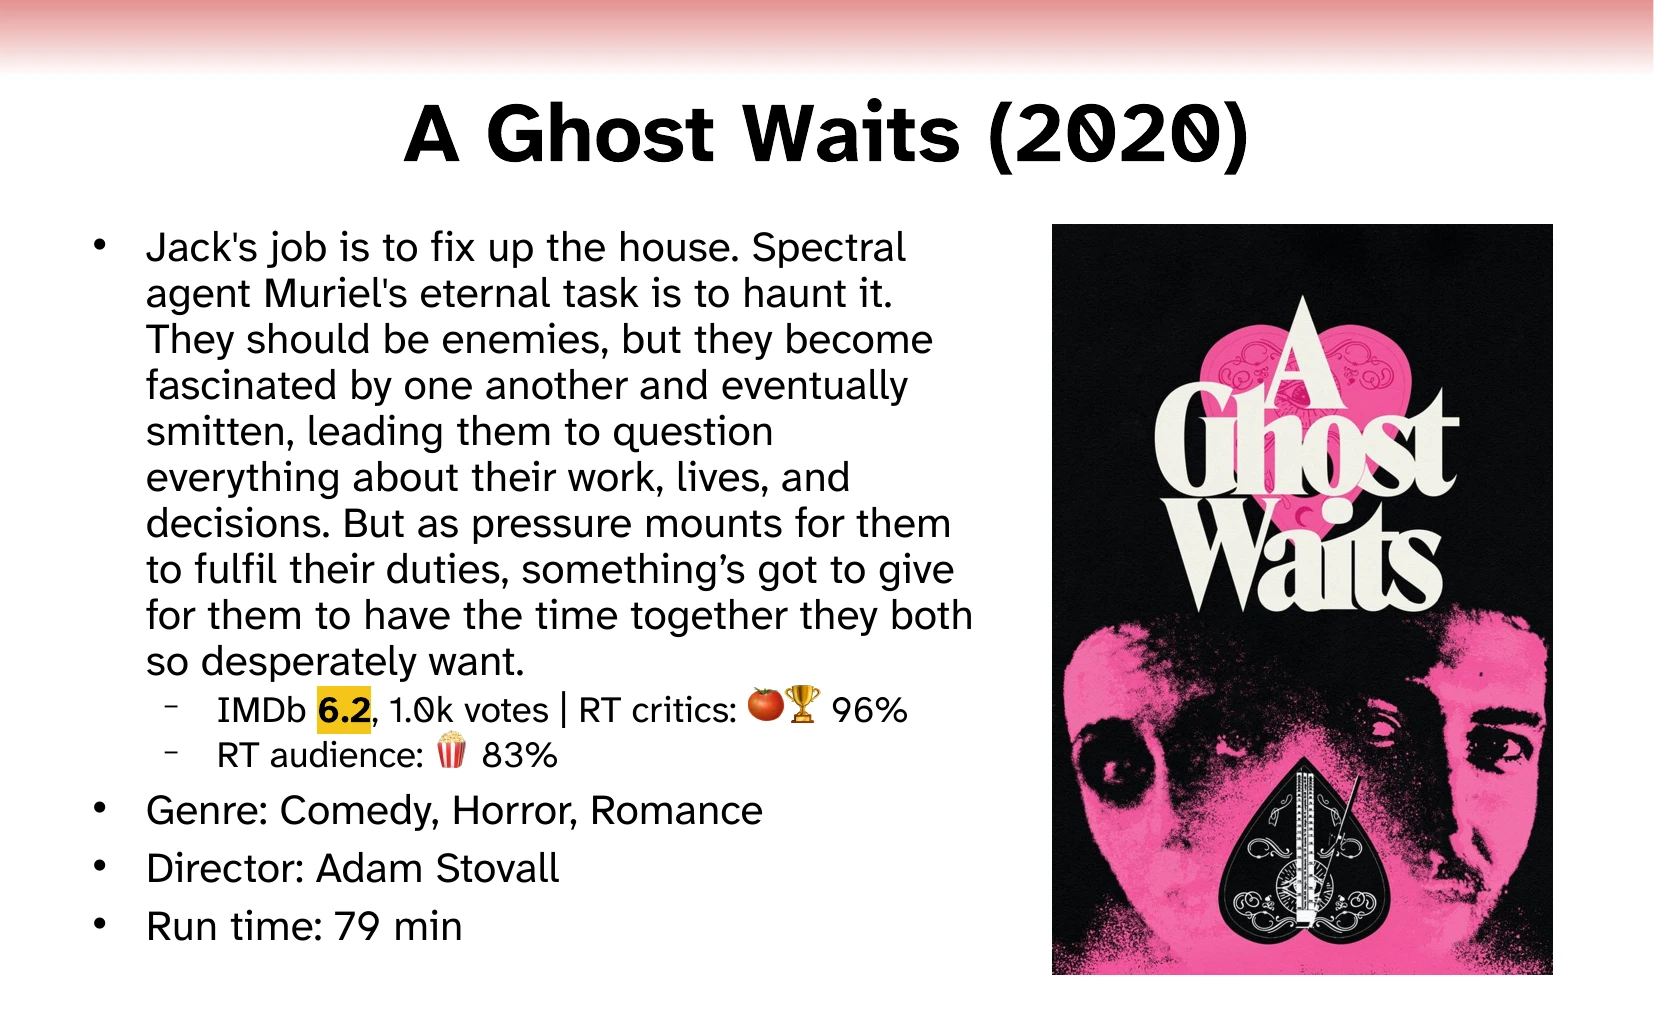
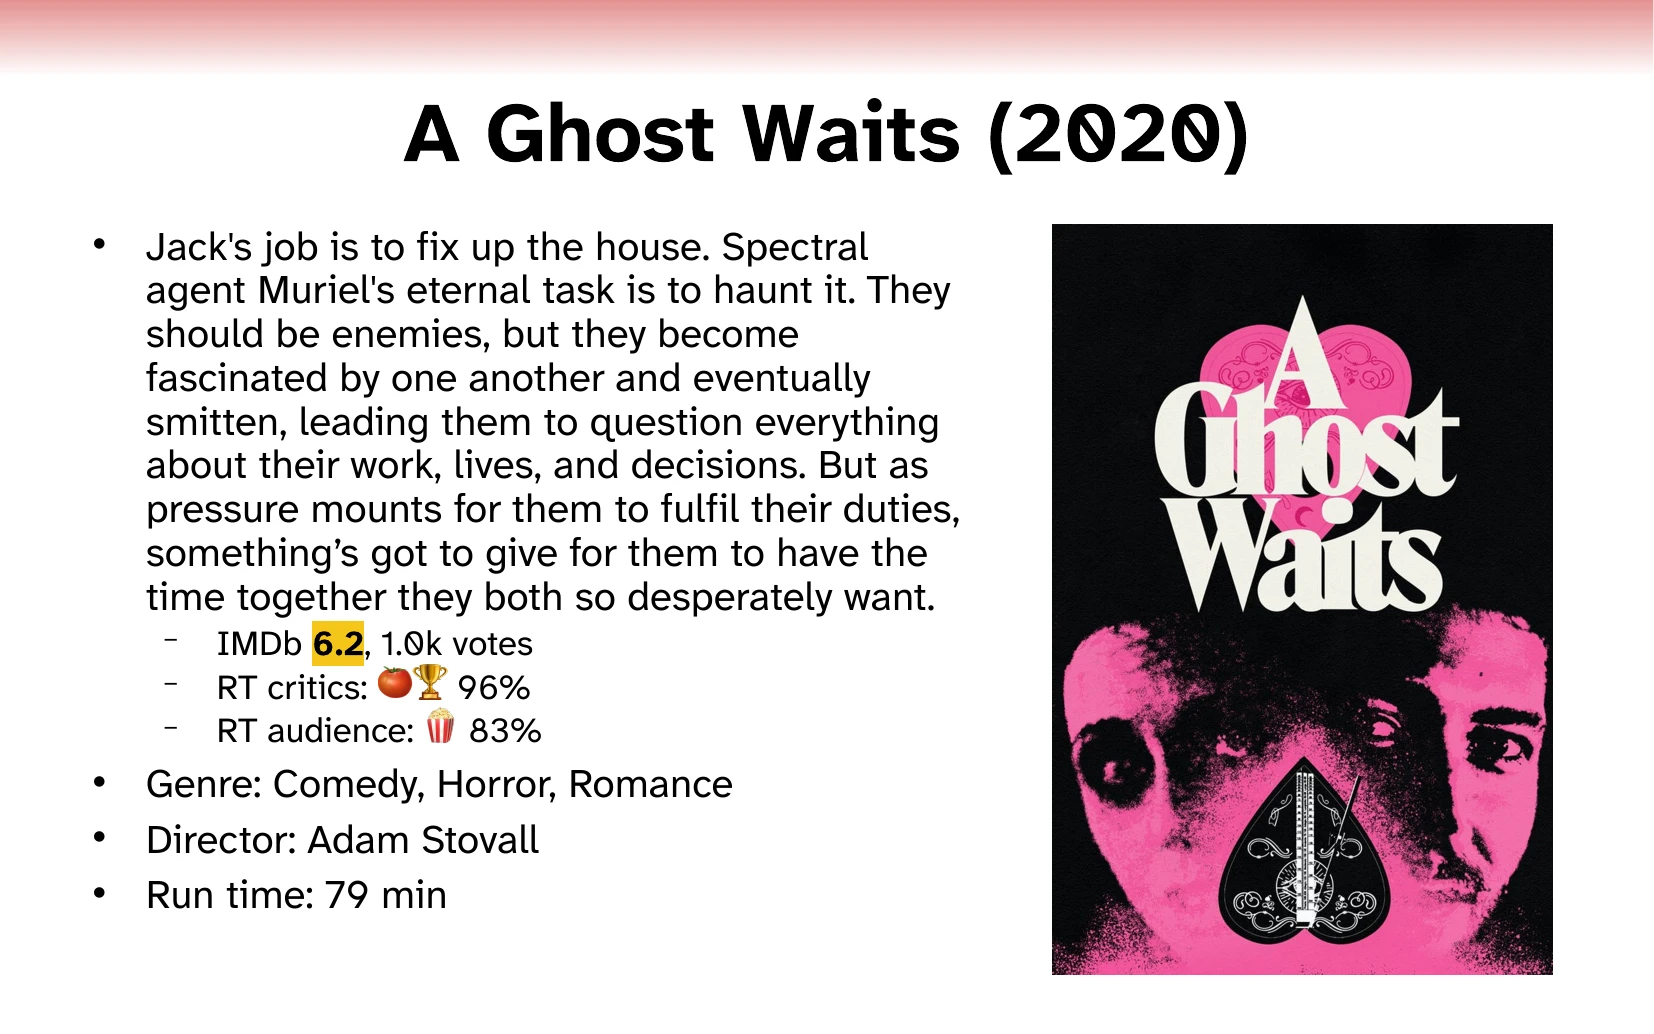
Prefer separate rating rows when the whole outline fits wit... (+1 more)
- Prefer separate rating rows when the whole outline fits with at most 15% font shrinking;
  compact crowded slides with RT critics and audience paired before combining other ratings. Replac...
- Rebuilt the five live examples with the repository review-deck script and inspected all four
  refreshed WebP previews. Her uses two rating rows with RT critics and audience together; Cooties,...

Changed region(s): [[0.0617, 0.2166, 0.5859, 0.9284]]

diff --git a/slide_maker/rating_layout.py b/slide_maker/rating_layout.py
@@ -8,6 +8,10 @@ import PIL.ImageFont #pillow
 import pptx.text.fonts
 
 
+# Allow modest shrinking before sacrificing the preferred one-rating-per-row layout.
+PREFERRED_MIN_SCALE = 0.85
+
+
 #============================================
 class TextMetrics:
 	"""Measure the installed movie font in points, reserving room for emoji."""
@@ -38,12 +42,19 @@ class TextMetrics:
 
 
 #============================================
-def pack_rows(widths: list[float], separator: float, width: float) -> list[list[int]]:
-	"""Wrap only between complete items, preserving their reading order."""
+def pack_rows(
+	widths: list[float], separator: float, width: float,
+	paired: tuple[int, int] | None = None,
+) -> list[list[int]]:
+	"""Pack complete items, keeping the preferred pair together before other merges."""
+	groups = [[index] for index in range(len(widths)) if paired is None or index not in paired]
+	if paired is not None:
+		groups.append(list(paired))
 	rows = []
 	row = []
 	used = 0.0
-	for index, item_width in enumerate(widths):
+	for group in groups:
+		item_width = sum(widths[index] for index in group) + separator * (len(group) - 1)
 		addition = item_width + (separator if row else 0.0)
 		if row and used + addition > width:
 			rows.append(row)
@@ -51,7 +62,7 @@ def pack_rows(widths: list[float], separator: float, width: float) -> list[list[
 			used = 0.0
 		if row:
 			used += separator
-		row.append(index)
+		row.extend(group)
 		used += item_width
 	if row:
 		rows.append(row)
@@ -89,8 +100,9 @@ def choose_rows(
 	height: float,
 	body_size: float,
 	rating_size: float,
+	paired: tuple[int, int] | None = None,
 ) -> tuple[list[list[int]], float]:
-	"""Choose compact rows at the largest estimated whole-outline text scale.
+	"""Prefer separate ratings; compact only when the whole outline is crowded.
 
 	All dimensions are points at the normal font sizes. Body text, including plot,
 	review and metadata, competes with ratings for the same height. Width reserves
@@ -98,24 +110,40 @@ def choose_rows(
 	"""
 	if min(body_width, rating_width, height) <= 0:
 		raise ValueError("The slide outline must have positive available dimensions")
-	lower = 0.0
-	upper = 1.0
-	best_rows = [[index] for index in range(len(widths))]
-	# Test full size first, then bisect the fit boundary rather than choosing by movie name.
-	for attempt in range(13):
-		scale = 1.0 if attempt == 0 else (lower + upper) / 2
-		available_width = rating_width * 0.95 / scale
-		rows = pack_rows(widths, separator, available_width)
-		lines = body_line_count(paragraphs, space, body_width * 0.95 / scale)
-		body_height = lines * body_size * 1.1 + len(paragraphs) * 5.75
-		rating_height = len(rows) * (rating_size * 1.1 + 2.89)
-		fits = (body_height + rating_height) * scale <= height
-		fits = fits and all(width <= available_width for width in widths)
-		if fits:
-			lower = scale
-			best_rows = rows
-			if scale == 1.0:
-				break
-		else:
-			upper = scale
+	separate_rows = [[index] for index in range(len(widths))]
+	paired_rows = [
+		list(paired) if paired is not None and index == paired[0] else [index]
+		for index in range(len(widths)) if paired is None or index != paired[1]
+	]
+	for layout in ("separate", "paired", "compact"):
+		if layout == "paired" and paired is None:
+			continue
+		lower = 0.0
+		upper = 1.0
+		best_rows = separate_rows
+		# Test full size first, then bisect the fit boundary using all outline content.
+		for attempt in range(13):
+			scale = 1.0 if attempt == 0 else (lower + upper) / 2
+			available_width = rating_width * 0.95 / scale
+			if layout == "compact":
+				rows = pack_rows(widths, separator, available_width, paired)
+			else:
+				rows = separate_rows if layout == "separate" else paired_rows
+			lines = body_line_count(paragraphs, space, body_width * 0.95 / scale)
+			body_height = lines * body_size * 1.1 + len(paragraphs) * 5.75
+			rating_height = len(rows) * (rating_size * 1.1 + 2.89)
+			fits = (body_height + rating_height) * scale <= height
+			fits = fits and all(
+				sum(widths[index] for index in row) + separator * (len(row) - 1) <= available_width
+				for row in rows
+			)
+			if fits:
+				lower = scale
+				best_rows = rows
+				if scale == 1.0:
+					break
+			else:
+				upper = scale
+		if lower >= PREFERRED_MIN_SCALE:
+			return best_rows, lower
 	return best_rows, lower

diff --git a/tests/test_rating_layout.py b/tests/test_rating_layout.py
@@ -1,5 +1,8 @@
 """Protect whole-item wrapping and content-sensitive rating composition."""
 
+# PIP3 modules
+import pytest
+
 # local repo modules
 import slide_maker.moviedata
 import slide_maker.rating_layout
@@ -25,6 +28,37 @@ def test_body_content_changes_rating_arrangement() -> None:
 	)
 	assert len(dense_rows) < len(sparse_rows)
 	assert 0 < dense_scale < sparse_scale <= 1
+	assert sparse_rows == [[0], [1], [2]]
+
+
+#============================================
+@pytest.mark.parametrize("widths", ([80, 70, 70], [80, 70, 70, 60]))
+def test_compact_ratings_pair_critics_and_audience(widths: list[float]) -> None:
+	"""Crowded slides pair the two RT facts and retain every available rating."""
+	rows, scale = slide_maker.rating_layout.choose_rows(
+		widths, 10, [[30] * 50], 5, 200, 200, 140, 20, 18, paired=(1, 2),
+	)
+	assert any(1 in row and 2 in row for row in rows)
+	assert sorted(index for row in rows for index in row) == list(range(len(widths)))
+	assert 0 < scale < 1
+
+
+#============================================
+def test_pair_only_rt_when_that_frees_enough_space() -> None:
+	"""Stop compacting after the RT pair when the remaining facts can stay separate."""
+	rows, scale = slide_maker.rating_layout.choose_rows(
+		[80, 70, 70, 60], 10, [[30] * 4], 5, 200, 200, 100, 20, 18, paired=(1, 2),
+	)
+	assert rows == [[0], [1, 2], [3]]
+	assert scale == 1
+
+
+#============================================
+def test_preferred_pair_wraps_as_a_unit() -> None:
+	"""RT stays together even when the other facts must occupy separate rows."""
+	assert slide_maker.rating_layout.pack_rows(
+		[110, 60, 60, 100], 5, 150, paired=(1, 2),
+	) == [[0], [3], [1, 2]]
 
 
 #============================================

diff --git a/slide_maker/slide_builder.py b/slide_maker/slide_builder.py
@@ -277,6 +277,8 @@ def fill_outline(slide: object, movie_data: slide_maker.moviedata.MovieData) -> 
 	rows = []
 	if items:
 		metrics = slide_maker.rating_layout.TextMetrics(FONT_NAME)
+		rt_indices = [index for index, (text, unused_score) in enumerate(items) if text.startswith("RT ")]
+		rt_pair = (rt_indices[0], rt_indices[1]) if len(rt_indices) == 2 else None
 		body_texts = ([movie_data.plot] if movie_data.plot else []) + details
 		width = outline_shape.width - text_frame.margin_left - text_frame.margin_right
 		height = outline_shape.height - text_frame.margin_top - text_frame.margin_bottom
@@ -288,6 +290,7 @@ def fill_outline(slide: object, movie_data: slide_maker.moviedata.MovieData) -> 
 			(width - int(body_properties.get("marL", "0"))) / 12700,
 			(width - int(rating_properties.get("marL", "0"))) / 12700,
 			height / 12700, PRIMARY_FONT_SIZE.pt, SECONDARY_FONT_SIZE.pt,
+			paired=rt_pair,
 		)
 	text_frame.clear()
 	text_frame.word_wrap = True

diff --git a/slide_maker/review_deck.py b/slide_maker/review_deck.py
@@ -74,7 +74,7 @@ DEFAULT_REQUESTS = (
 	ReviewMovieRequest("Her", 2013),
 	ReviewMovieRequest("Cooties", 2014),
 	ReviewMovieRequest("It", 2017),
-	ReviewMovieRequest("Sinners", 2025),
+	ReviewMovieRequest("Parasite", 2019),
 	ReviewMovieRequest("A Ghost Waits", 2020),
 )
 DEFAULT_OUTPUT_PATH = pathlib.Path("output_smoke/review_deck.odp")

diff --git a/tests/e2e/e2e_review_deck.py b/tests/e2e/e2e_review_deck.py
@@ -29,7 +29,7 @@ EXPECTED_REQUEST_IDENTITIES = (
 	"Her (2013)",
 	"Cooties (2014)",
 	"It (2017)",
-	"Sinners (2025)",
+	"Parasite (2019)",
 	"A Ghost Waits (2020)",
 )
 EXPECTED_OUTPUT_PATH = REPO_ROOT / "output_smoke" / "review_deck.odp"

diff --git a/README.md b/README.md
@@ -10,7 +10,8 @@ The current setup requires a Mac and some Terminal steps, described below.
 ## Screenshots
 
 Click any preview to see the full-size slide. These live examples from 2026-10-16 show different
-amounts of plot, ratings, and review text; A Ghost Waits has no Metascore or review summary.
+amounts of plot, ratings, and review text. Parasite shows the Korean original-language label;
+A Ghost Waits has no Metascore or review summary.
 Posters come from TMDB. Ratings and provider coverage can change.
 
 <!-- screenshots:begin (managed by screenshot-docs) -->
@@ -27,8 +28,8 @@ Posters come from TMDB. Ratings and provider coverage can change.
   </tr>
   <tr>
     <td width="50%">
-      <a href="docs/screenshots/movie_slide_sinners.webp"><img src="docs/screenshots/movie_slide_sinners.webp" width="400" alt="Sinners slide with poster, compact ratings, and movie details"></a><br>
-      Sinners (2025)
+      <a href="docs/screenshots/movie_slide_parasite.webp"><img src="docs/screenshots/movie_slide_parasite.webp" width="400" alt="Parasite slide with poster, ratings, and Korean original-language label"></a><br>
+      Parasite (2019)
     </td>
     <td width="50%">
       <a href="docs/screenshots/movie_slide_a_ghost_waits.webp"><img src="docs/screenshots/movie_slide_a_ghost_waits.webp" width="400" alt="A Ghost Waits slide with poster and ratings, omitting missing Metascore and summary"></a><br>
@@ -50,7 +51,8 @@ recommendation. The same layout works with a full set of ratings or just the det
 - Leave out unavailable details so the slide stays useful when a source has gaps.
 - Edit the finished slide in LibreOffice Impress and copy it into your presentation.
 
-Each slide has a bold, centered title, a movie summary with compact ratings, and a poster.
+Each slide has a bold, centered title, a movie summary with ratings, and a poster.
+Ratings use separate rows when space allows and share rows on crowded slides.
 Text uses Atkinson Hyperlegible Next on a 28 by 17.5 cm slide. The layout comes from
 [`template/movie_slide_template.pptx`](template/movie_slide_template.pptx).
 
@@ -82,7 +84,7 @@ same live provider and presentation path:
 source source_me.sh && python3 -m slide_maker.review_deck < /dev/null
 ```
 
-The default order is `Her (2013)`, `Cooties (2014)`, `It (2017)`, `Sinners (2025)`, and
+The default order is `Her (2013)`, `Cooties (2014)`, `It (2017)`, `Parasite (2019)`, and
 `A Ghost Waits (2020)`. Missing provider data reduces the content of a slide without excluding the
 movie. The products are `output_smoke/review_deck.odp` and retained page PNGs under
 `output_smoke/review_deck_pages/`.

diff --git a/devel/DEVEL_README.md b/devel/DEVEL_README.md
@@ -107,16 +107,18 @@ image encoder with `brew install webp`, then convert the selected pages with `cw
 source source_me.sh && python3 -m slide_maker.review_deck < /dev/null
 cp output_smoke/review_deck_pages/slide_01.png /tmp/movie_slide_her.png
 cp output_smoke/review_deck_pages/slide_02.png /tmp/movie_slide_cooties.png
-cp output_smoke/review_deck_pages/slide_04.png /tmp/movie_slide_sinners.png
+cp output_smoke/review_deck_pages/slide_04.png /tmp/movie_slide_parasite.png
 cp output_smoke/review_deck_pages/slide_05.png /tmp/movie_slide_a_ghost_waits.png
-for name in her cooties sinners a_ghost_waits; do
+for name in her cooties parasite a_ghost_waits; do
   cwebp -q 90 "/tmp/movie_slide_${name}.png" -o "/tmp/movie_slide_${name}.webp" &&
     cp "/tmp/movie_slide_${name}.webp" docs/screenshots/
 done
 ```
 
-Before copying, confirm the accepted page order is Her, Cooties, It, Sinners, A Ghost Waits.
+Before copying, confirm the accepted page order is Her, Cooties, It, Parasite, A Ghost Waits.
 Inspect the four selected images for clipping and verify the README captions match provider coverage.
+Check that A Ghost Waits keeps its ratings on separate rows, crowded slides pair the two RT
+ratings before combining other scores, and Parasite displays `Original language: Korean`.
 The README uses a 2 by 2 HTML table with 400-pixel previews linked to the full-size WebP images.
 Keep WebP images within 1920 pixels on the longer edge and about 1 MB each. The existing renderer
 produces 1654 by 1034 pixel images. Update the capture date in [README.md](../README.md)

diff --git a/docs/USAGE.md b/docs/USAGE.md
@@ -28,9 +28,10 @@ deck's exact 28 by 17.5 cm page size, so copying a slide into that deck does not
 
 The ratings block highlights the IMDb score in yellow and abbreviates large vote counts, such as
 `435k` or `1.2M`. Rotten Tomatoes critics use a rotten mark below 60, a tomato from 60 through 80,
-and a tomato with a trophy above 80. Available ratings share compact rows, with RT critics,
-RT audience, and Metacritic labeled separately. Row breaks account for plot, review, metadata,
-and available text space; each rating stays together. Missing ratings and reviews are omitted.
+and a tomato with a trophy above 80. Ratings use separate rows when the plot, review, and
+metadata leave enough space. Crowded slides combine ratings, pairing RT critics and RT audience
+first; each rating stays together and keeps its provider label. Missing ratings and reviews
+are omitted.
 The slide displays one `Original language:` value when known and non-English. This is the movie's
 original language, not a list of spoken languages or a claim about subtitles in a particular viewing copy.
 Text uses Atkinson Hyperlegible Next with a bold title. Generated movie slides require a poster.
@@ -61,7 +62,7 @@ With no arguments, the module resolves this exact built-in list in order:
 1. `Her (2013)`
 2. `Cooties (2014)`
 3. `It (2017)`
-4. `Sinners (2025)`
+4. `Parasite (2019)`
 5. `A Ghost Waits (2020)`
 
 Each movie becomes a page using its available information. Source omissions are reported in the

diff --git a/docs/CHANGELOG.md b/docs/CHANGELOG.md
@@ -4,6 +4,9 @@
 
 ### Behavior or Interface Changes
 
+- Prefer separate rating rows when the whole outline fits with at most 15% font shrinking;
+  compact crowded slides with RT critics and audience paired before combining other ratings.
+  Replace Sinners with Parasite in the example deck and README to demonstrate non-English metadata.
 - Convert the four README screenshots to WebP at quality 90 and update their links and
   reproducible conversion instructions; retain the compact grid and full image dimensions.
 - Pack independent rating items into compact rows using measured text width and the whole
@@ -32,6 +35,11 @@
 
 ### Developer Tests and Notes
 
+- Rebuilt the five live examples with the repository review-deck script and inspected all four
+  refreshed WebP previews. Her uses two rating rows with RT critics and audience together;
+  Cooties, Parasite, and A Ghost Waits keep separate ratings. Parasite shows Korean. Normal
+  and long-text LibreOffice visual acceptance passed; the full pytest suite passed 758 checks.
+  Focused layout checks cover separate rows, RT-only pairing, and further compaction.
 - Verified all four WebP files decode at the original dimensions and all eight README image
   references resolve. Total screenshot size fell from 2,615,719 to 653,324 bytes (75% smaller).
   Inspected the converted Her slide; 21 Markdown-link checks and `git diff --check` passed.

diff --git a/docs/HUMAN_GUIDANCE.md b/docs/HUMAN_GUIDANCE.md
@@ -6,8 +6,10 @@
   field must not discard other information or prevent a slide.
 - Require a poster for generated movie slides. Try alternate TMDB posters when the primary image
   is missing or fails; stop and report the failure if no usable poster can be retrieved.
-- Arrange available ratings compactly with clear provider and critic/audience labels. Choose
-  line breaks using the whole slide's available space, and keep each rating item together.
+- Prefer one rating per row when the whole slide has room at a readable text size. Compact
+  ratings only when the plot, review summary, and other details make space tight. Pair RT
+  critics (Tomatometer) and RT audience (Popcornmeter) before combining other ratings.
+  Keep clear provider labels and keep each rating item together.
   Use the smallest coherent implementation; add complexity only for demonstrated needs.
 - Ask for clarification when the intended movie is ambiguous. Omit information belonging to a
   different movie and report source problems in the console.
